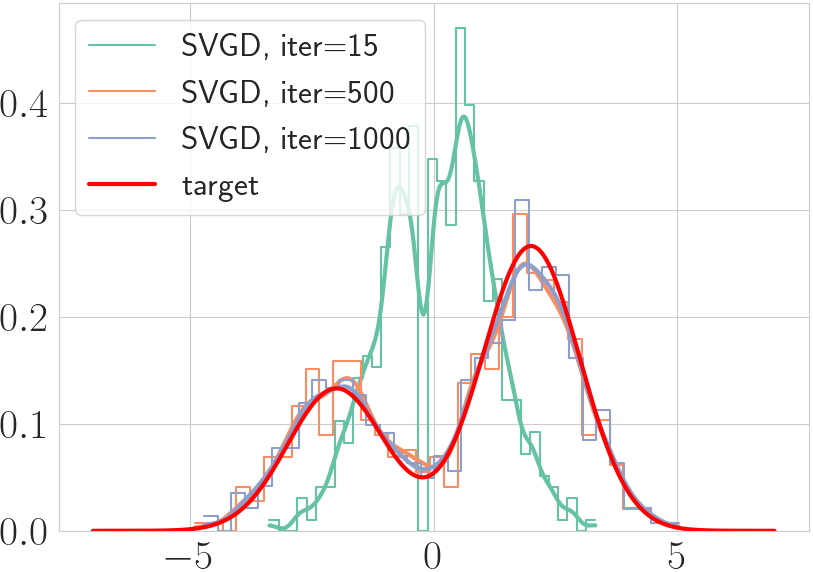
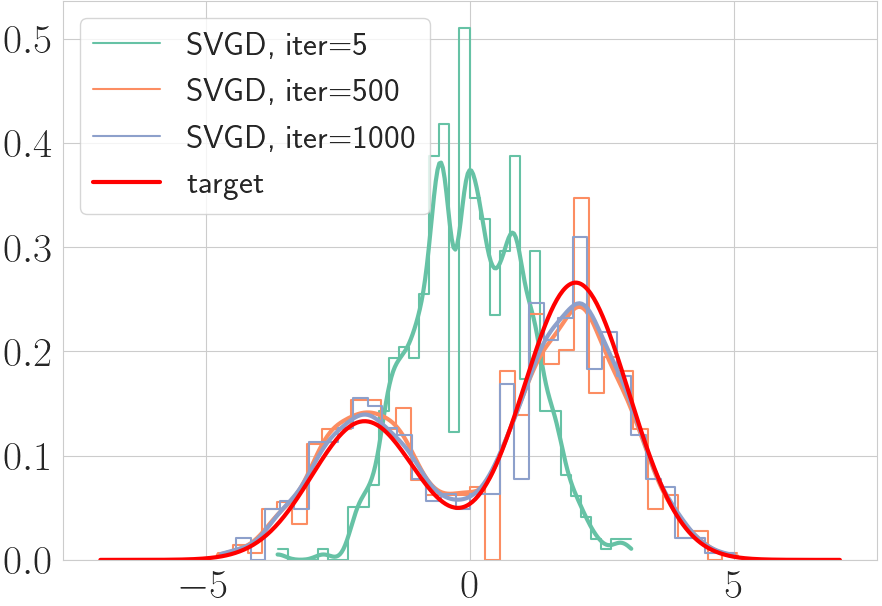
Add 5 iterations

diff --git a/tests/test_mpart.py b/tests/test_mpart.py
@@ -218,7 +218,7 @@ if __name__ == '__main__':
         seed = 1928342
         # Ensure that the number of parameters * number of MC points for training <= 128*128
         num_test_pts = (512*512) // (total_order+1)
-        optimization_args = {'maxiter': 10} # Optimization algorithm gets 100 steps
+        optimization_args = {'maxiter': 5} # Optimization algorithm gets 100 steps
         tmap1 = train_map(num_test_pts, total_order, optimization_args)
         optimization_args = {'maxiter': 500} 
         tmap2 = train_map(num_test_pts, total_order, optimization_args)
@@ -227,7 +227,7 @@ if __name__ == '__main__':
             pickle.dump(tmap2.CoeffMap(), f)
 
     # Example use of `tmap` for generative modeling
-    test_pts = np.random.randn(1, 20000)
+    test_pts = np.random.randn(1, 50000)
     eval_samples1 = tmap1.Evaluate(test_pts).flatten()
     eval_samples2 = tmap2.Evaluate(test_pts).flatten()
     # Messy way to get the PDF, reinitializing the gmm object (change if you change the target)
@@ -238,7 +238,7 @@ if __name__ == '__main__':
     ax.set_xlabel("x", fontsize=30)
     ax.xaxis.set_tick_params(labelsize=30)
     ax.yaxis.set_tick_params(labelsize=30)
-    ax.hist(eval_samples1, bins=128, lw=3.0, histtype="step", density=True, label="param trans, iter = 10")
+    ax.hist(eval_samples1, bins=128, lw=3.0, histtype="step", density=True, label="param trans, iter = 5")
     ax.hist(eval_samples2, bins=128, lw=3.0, histtype="step", density=True, label="param trans, iter = 500")
     ax.plot(eval_samples2, np.exp(gmm.logpdf(eval_samples2)), lw=3.0, color='r', label=R"target")
     ax.legend(fontsize=24,framealpha=0)

diff --git a/tests/test_svgd.py b/tests/test_svgd.py
@@ -88,7 +88,7 @@ def gradient_log_bimodal_p(x):
 x0 = np.random.normal(0, 1, [512, 1])
 
 # Use SVGD to update the samples
-theta1 = SVGD().update(x0, gradient_log_bimodal_p, n_iter=15, stepsize=0.01)
+theta1 = SVGD().update(x0, gradient_log_bimodal_p, n_iter=5, stepsize=0.01)
 theta2 = SVGD().update(x0, gradient_log_bimodal_p, n_iter=500, stepsize=0.01)
 theta3 = SVGD().update(x0, gradient_log_bimodal_p, n_iter=1000, stepsize=0.01)
 # Sanity Checking
@@ -111,7 +111,7 @@ ax.yaxis.set_tick_params(labelsize=30)
 ax.grid(True)
 
 colors = sns.color_palette("Set2", 10)
-sns.histplot(theta1, ax=ax, color=colors[0], kde=True, fill=False, stat='density', bins=35, element="step", kde_kws={'bw_adjust': 0.5}, line_kws = {'linewidth': 3}, label='SVGD, iter=15')
+sns.histplot(theta1, ax=ax, color=colors[0], kde=True, fill=False, stat='density', bins=35, element="step", kde_kws={'bw_adjust': 0.5}, line_kws = {'linewidth': 3}, label='SVGD, iter=5')
 
 sns.histplot(theta2, ax=ax, color=colors[1], kde=True, fill=False, stat='density', bins=35, element="step", kde_kws={'bw_adjust':0.5}, line_kws = {'linewidth': 3}, label='SVGD, iter=500')
 
